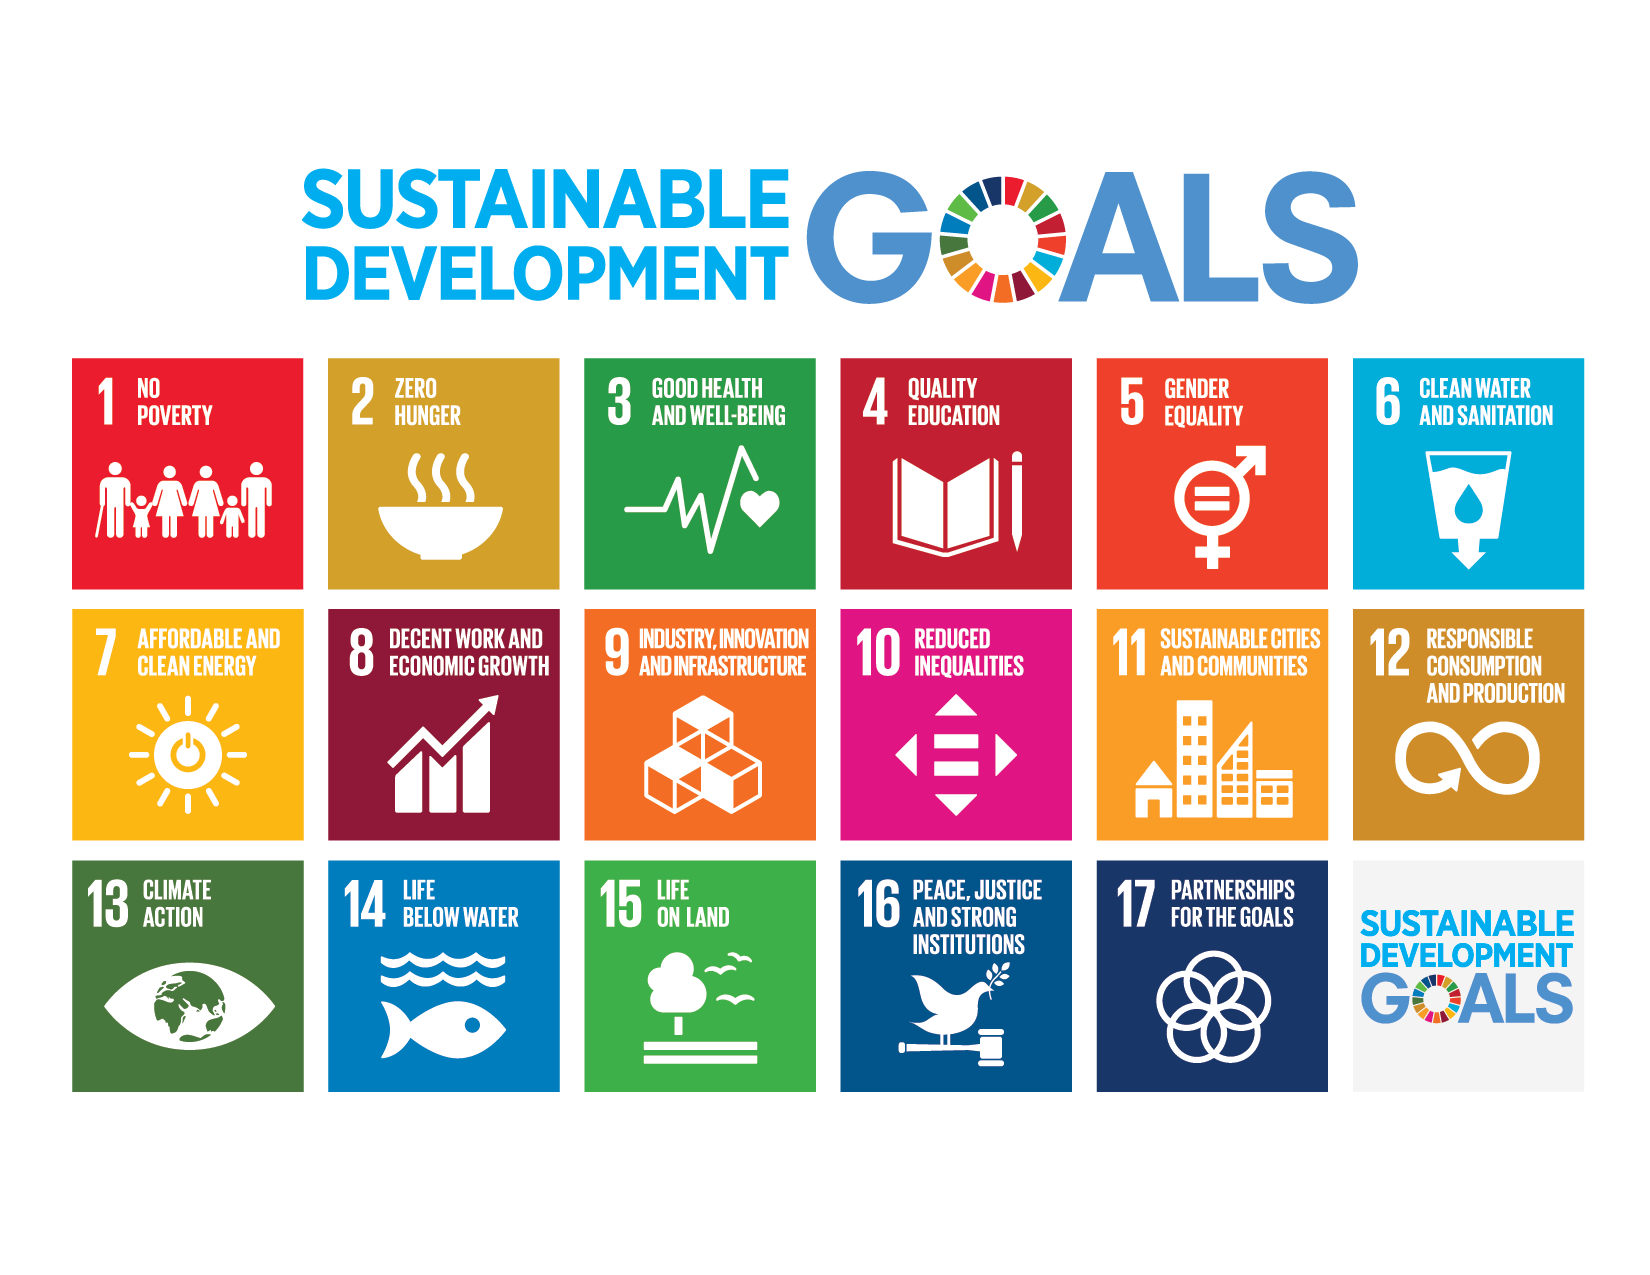
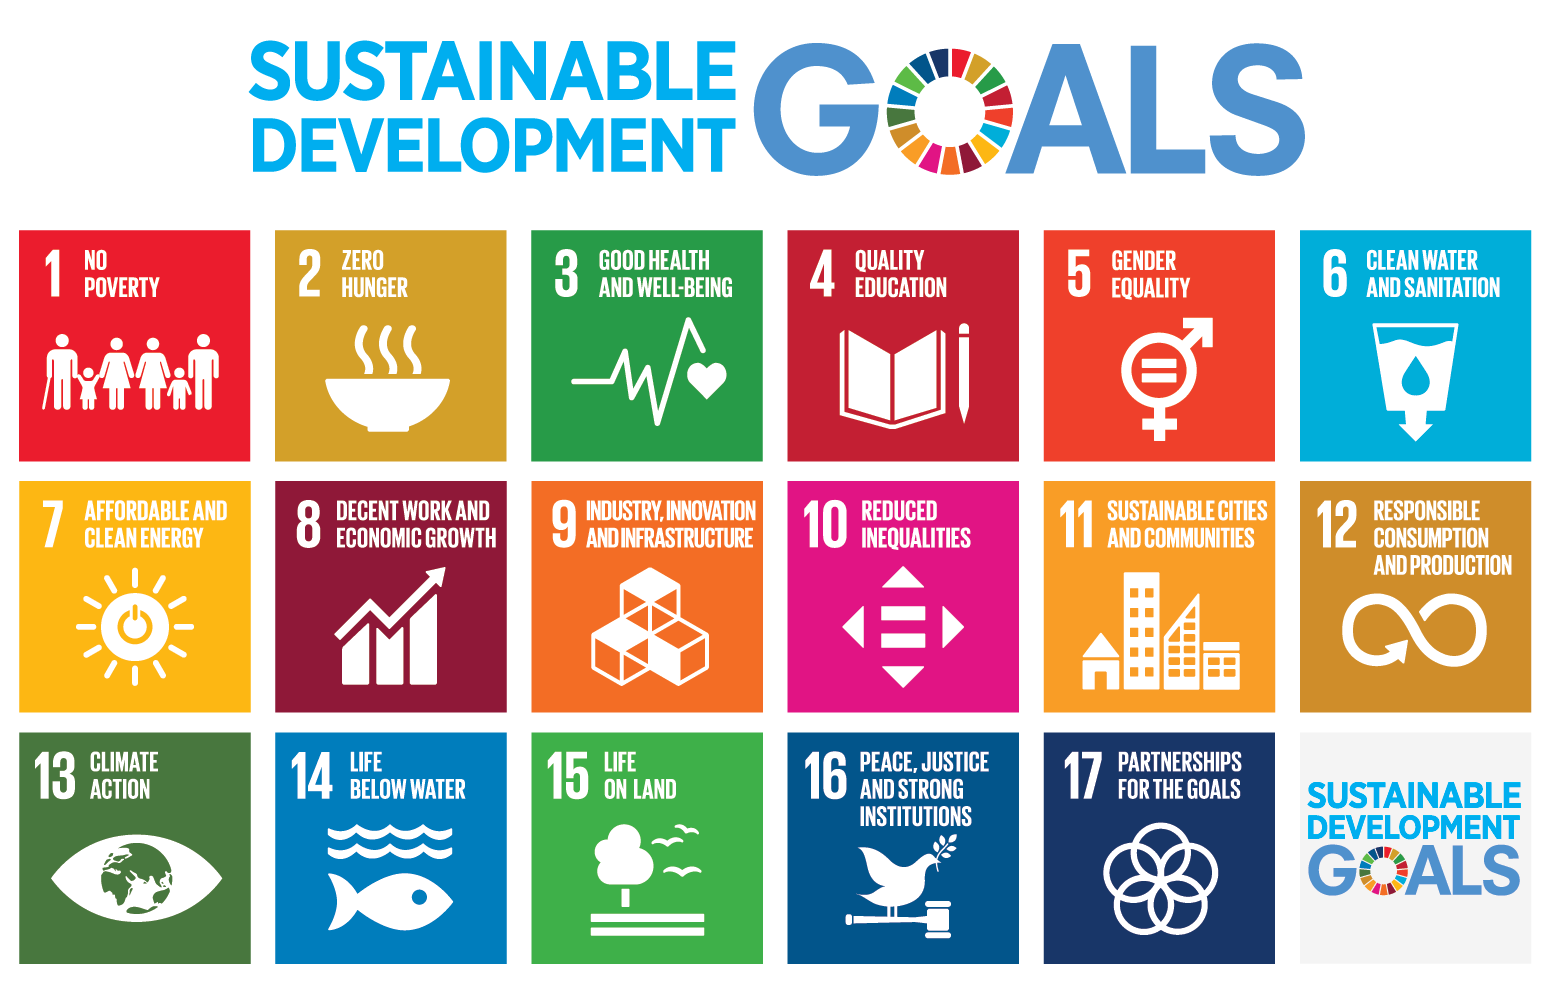
update image

diff --git a/invited_speaking.html b/invited_speaking.html
@@ -222,7 +222,11 @@
       </section>
 
       <!-- Full width image (Global Keynote Speaker) -->
-      <section class="container" aria-label="Global Keynote Speaker">
+      <section
+        class="container"
+        aria-label="Global Keynote Speaker"
+        style="margin-bottom: 30px"
+      >
         <figure class="media-wide banner-overlay">
           <img
             src="assets/images/sus_goal.png"
